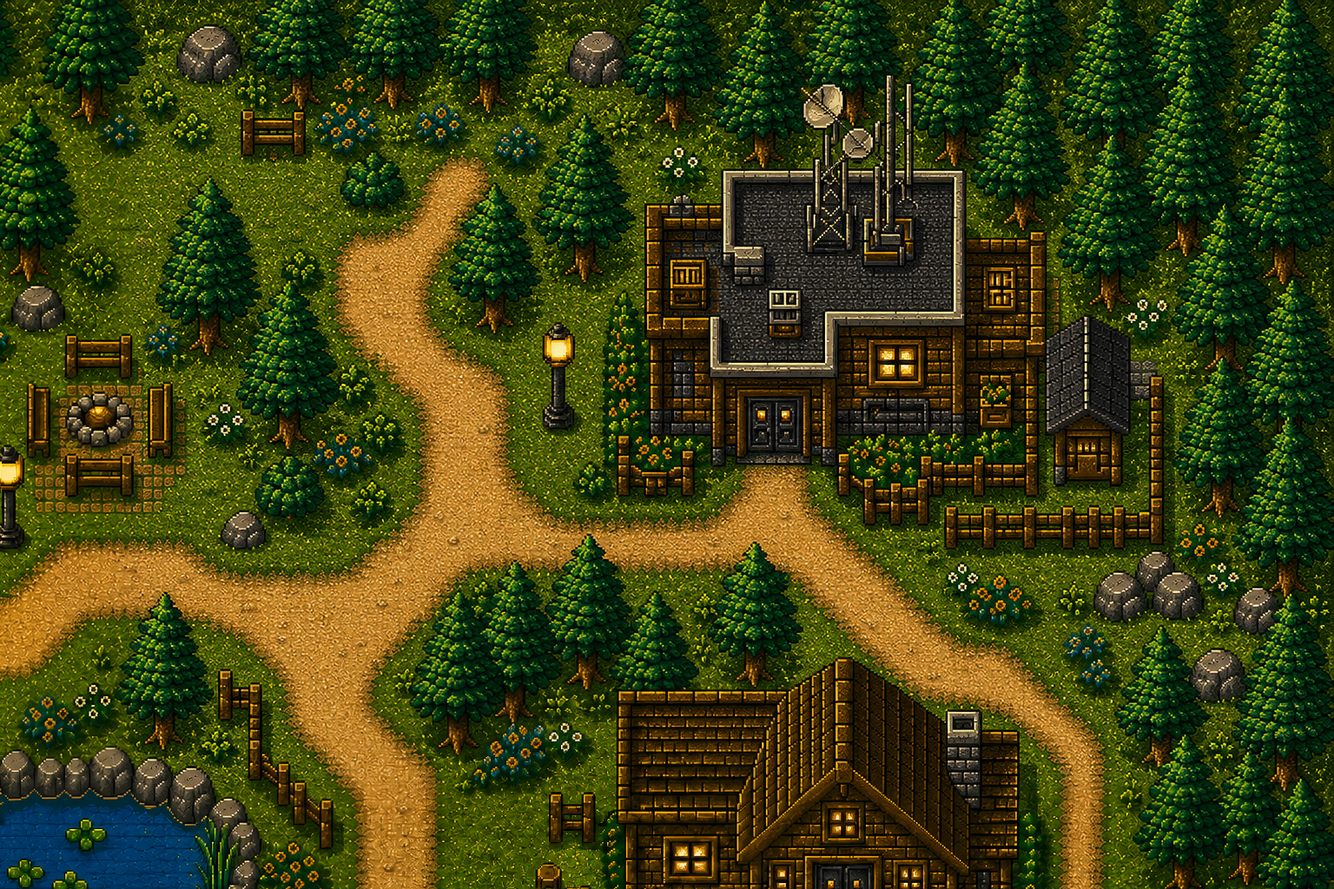
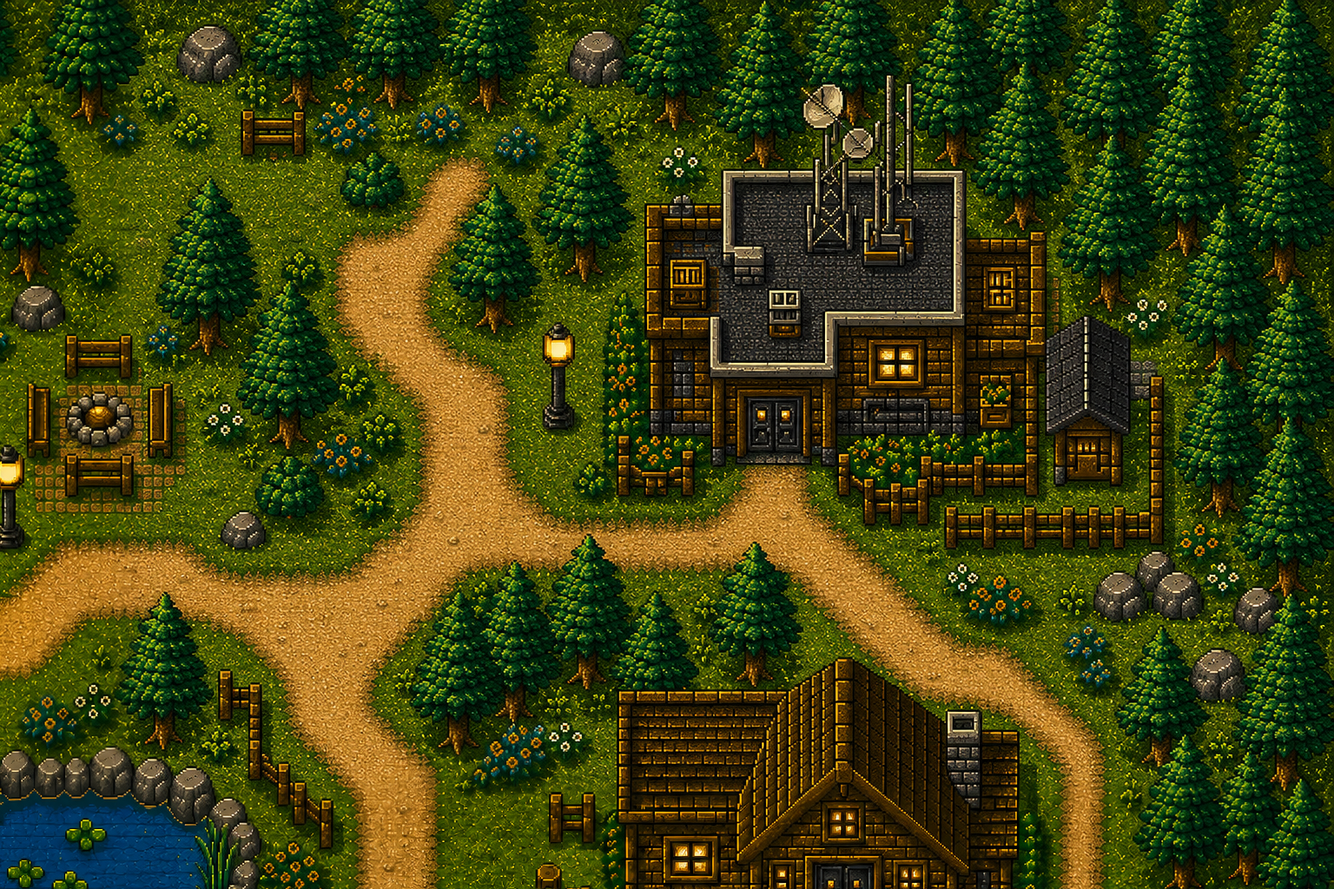
fix(outdoor): ship seamless v11 campus artwork

Changed region(s): [[0.375, 0.7812, 0.5625, 1.0], [0.2812, 0.8125, 0.3438, 0.8438]]

diff --git a/tools/repair_outdoor_v10_spots.py b/tools/repair_outdoor_v10_spots.py
@@ -23,7 +23,15 @@ SPOTS = {
 MASK_BOXES = {
     "grass-path": (70, 320, 954, 704),
     "river-corner": (300, 300, 724, 724),
-    "cottage-edge": (290, 315, 734, 709),
+    # Stop before the cottage silhouette. The previous wider mask crossed the
+    # facade and made the otherwise intact house look like two joined images.
+    "cottage-edge": (320, 390, 555, 680),
+}
+
+MASK_BLURS = {
+    "grass-path": 72,
+    "river-corner": 72,
+    "cottage-edge": 24,
 }
 
 
@@ -34,10 +42,12 @@ def prepare() -> None:
         master.crop(box).save(SOURCES / f"{name}.png", optimize=True)
 
 
-def feathered_mask(size: tuple[int, int], box: tuple[int, int, int, int]) -> Image.Image:
+def feathered_mask(
+    size: tuple[int, int], box: tuple[int, int, int, int], blur: int = 72
+) -> Image.Image:
     mask = Image.new("L", size, 0)
-    ImageDraw.Draw(mask).rounded_rectangle(box, radius=120, fill=255)
-    return mask.filter(ImageFilter.GaussianBlur(72))
+    ImageDraw.Draw(mask).rounded_rectangle(box, radius=min(120, blur * 3), fill=255)
+    return mask.filter(ImageFilter.GaussianBlur(blur))
 
 
 def load_repair(name: str) -> Image.Image:
@@ -54,7 +64,7 @@ def compose_alpha() -> Image.Image:
     master = Image.open(MASTER).convert("RGB")
     for name, crop_box in SPOTS.items():
         repair = load_repair(name)
-        mask = feathered_mask(repair.size, MASK_BOXES[name])
+        mask = feathered_mask(repair.size, MASK_BOXES[name], MASK_BLURS[name])
         master.paste(repair, (crop_box[0], crop_box[1]), mask)
     return master
 
@@ -63,7 +73,7 @@ def compose_clone() -> Image.Image:
     master = cv2.imread(str(MASTER), cv2.IMREAD_COLOR)
     for name, crop_box in SPOTS.items():
         repair = cv2.cvtColor(np.asarray(load_repair(name)), cv2.COLOR_RGB2BGR)
-        mask_image = feathered_mask((1024, 1024), MASK_BOXES[name])
+        mask_image = feathered_mask((1024, 1024), MASK_BOXES[name], MASK_BLURS[name])
         mask = np.asarray(mask_image, dtype=np.uint8)
         center = ((crop_box[0] + crop_box[2]) // 2, (crop_box[1] + crop_box[3]) // 2)
         master = cv2.seamlessClone(repair, master, mask, center, cv2.NORMAL_CLONE)

diff --git a/tools/repair_outdoor_v11_house.py b/tools/repair_outdoor_v11_house.py
@@ -1,0 +1,56 @@
+from pathlib import Path
+
+from PIL import Image, ImageDraw, ImageFilter
+
+
+ROOT = Path(__file__).resolve().parents[1]
+ASSETS = ROOT / "public" / "game-assets"
+BASE_MASTER = ASSETS / "outdoor-v10-connected-master.png"
+SOURCE = ASSETS / "outdoor-v11-house-source.png"
+REPAIR = ASSETS / "outdoor-v11-house-repair.png"
+MASTER = ASSETS / "outdoor-v11-connected-master.png"
+PREVIEW = ASSETS / "outdoor-v11-connected-preview.png"
+TILES = ASSETS / "outdoor-v11-seamless-tiles"
+
+CROP_BOX = (1880, 400, 2904, 1424)
+HOUSE_MASK_BOX = (90, 330, 950, 835)
+
+
+def prepare() -> None:
+    Image.open(BASE_MASTER).convert("RGB").crop(CROP_BOX).save(SOURCE, optimize=True)
+
+
+def compose() -> None:
+    master = Image.open(BASE_MASTER).convert("RGB")
+    repair = Image.open(REPAIR).convert("RGB")
+    if repair.size != (1024, 1024):
+        repair = repair.resize((1024, 1024), Image.Resampling.NEAREST)
+
+    # The feather lives entirely in grass/path around the building, so no mask
+    # boundary crosses the roof or facade.
+    mask = Image.new("L", (1024, 1024), 0)
+    ImageDraw.Draw(mask).rounded_rectangle(HOUSE_MASK_BOX, radius=110, fill=255)
+    mask = mask.filter(ImageFilter.GaussianBlur(36))
+    master.paste(repair, (CROP_BOX[0], CROP_BOX[1]), mask)
+
+    master.save(MASTER, optimize=True)
+    master.resize((1536, 1024), Image.Resampling.NEAREST).save(PREVIEW, optimize=True)
+    TILES.mkdir(parents=True, exist_ok=True)
+    for tile_y in range(2):
+        for tile_x in range(2):
+            box = (
+                tile_x * 1536,
+                tile_y * 1024,
+                (tile_x + 1) * 1536,
+                (tile_y + 1) * 1024,
+            )
+            master.crop(box).save(TILES / f"outdoor-{tile_x}-{tile_y}.png", optimize=True)
+
+
+if __name__ == "__main__":
+    import argparse
+
+    parser = argparse.ArgumentParser()
+    parser.add_argument("stage", choices=("prepare", "compose"))
+    args = parser.parse_args()
+    prepare() if args.stage == "prepare" else compose()

diff --git a/tools/create_outdoor_v6_overlays.py b/tools/create_outdoor_v6_overlays.py
@@ -8,8 +8,8 @@ from PIL import Image, ImageDraw
 
 ROOT = Path(__file__).resolve().parents[1]
 ASSETS = ROOT / "public" / "game-assets"
-TILES = ASSETS / "outdoor-v10-seamless-tiles"
-OUTPUT = ASSETS / "outdoor-v10-hires-overlays"
+TILES = ASSETS / "outdoor-v11-seamless-tiles"
+OUTPUT = ASSETS / "outdoor-v11-hires-overlays"
 FRAME_COUNT = 10
 TILE_WIDTH, TILE_HEIGHT = 1536, 1024
 
